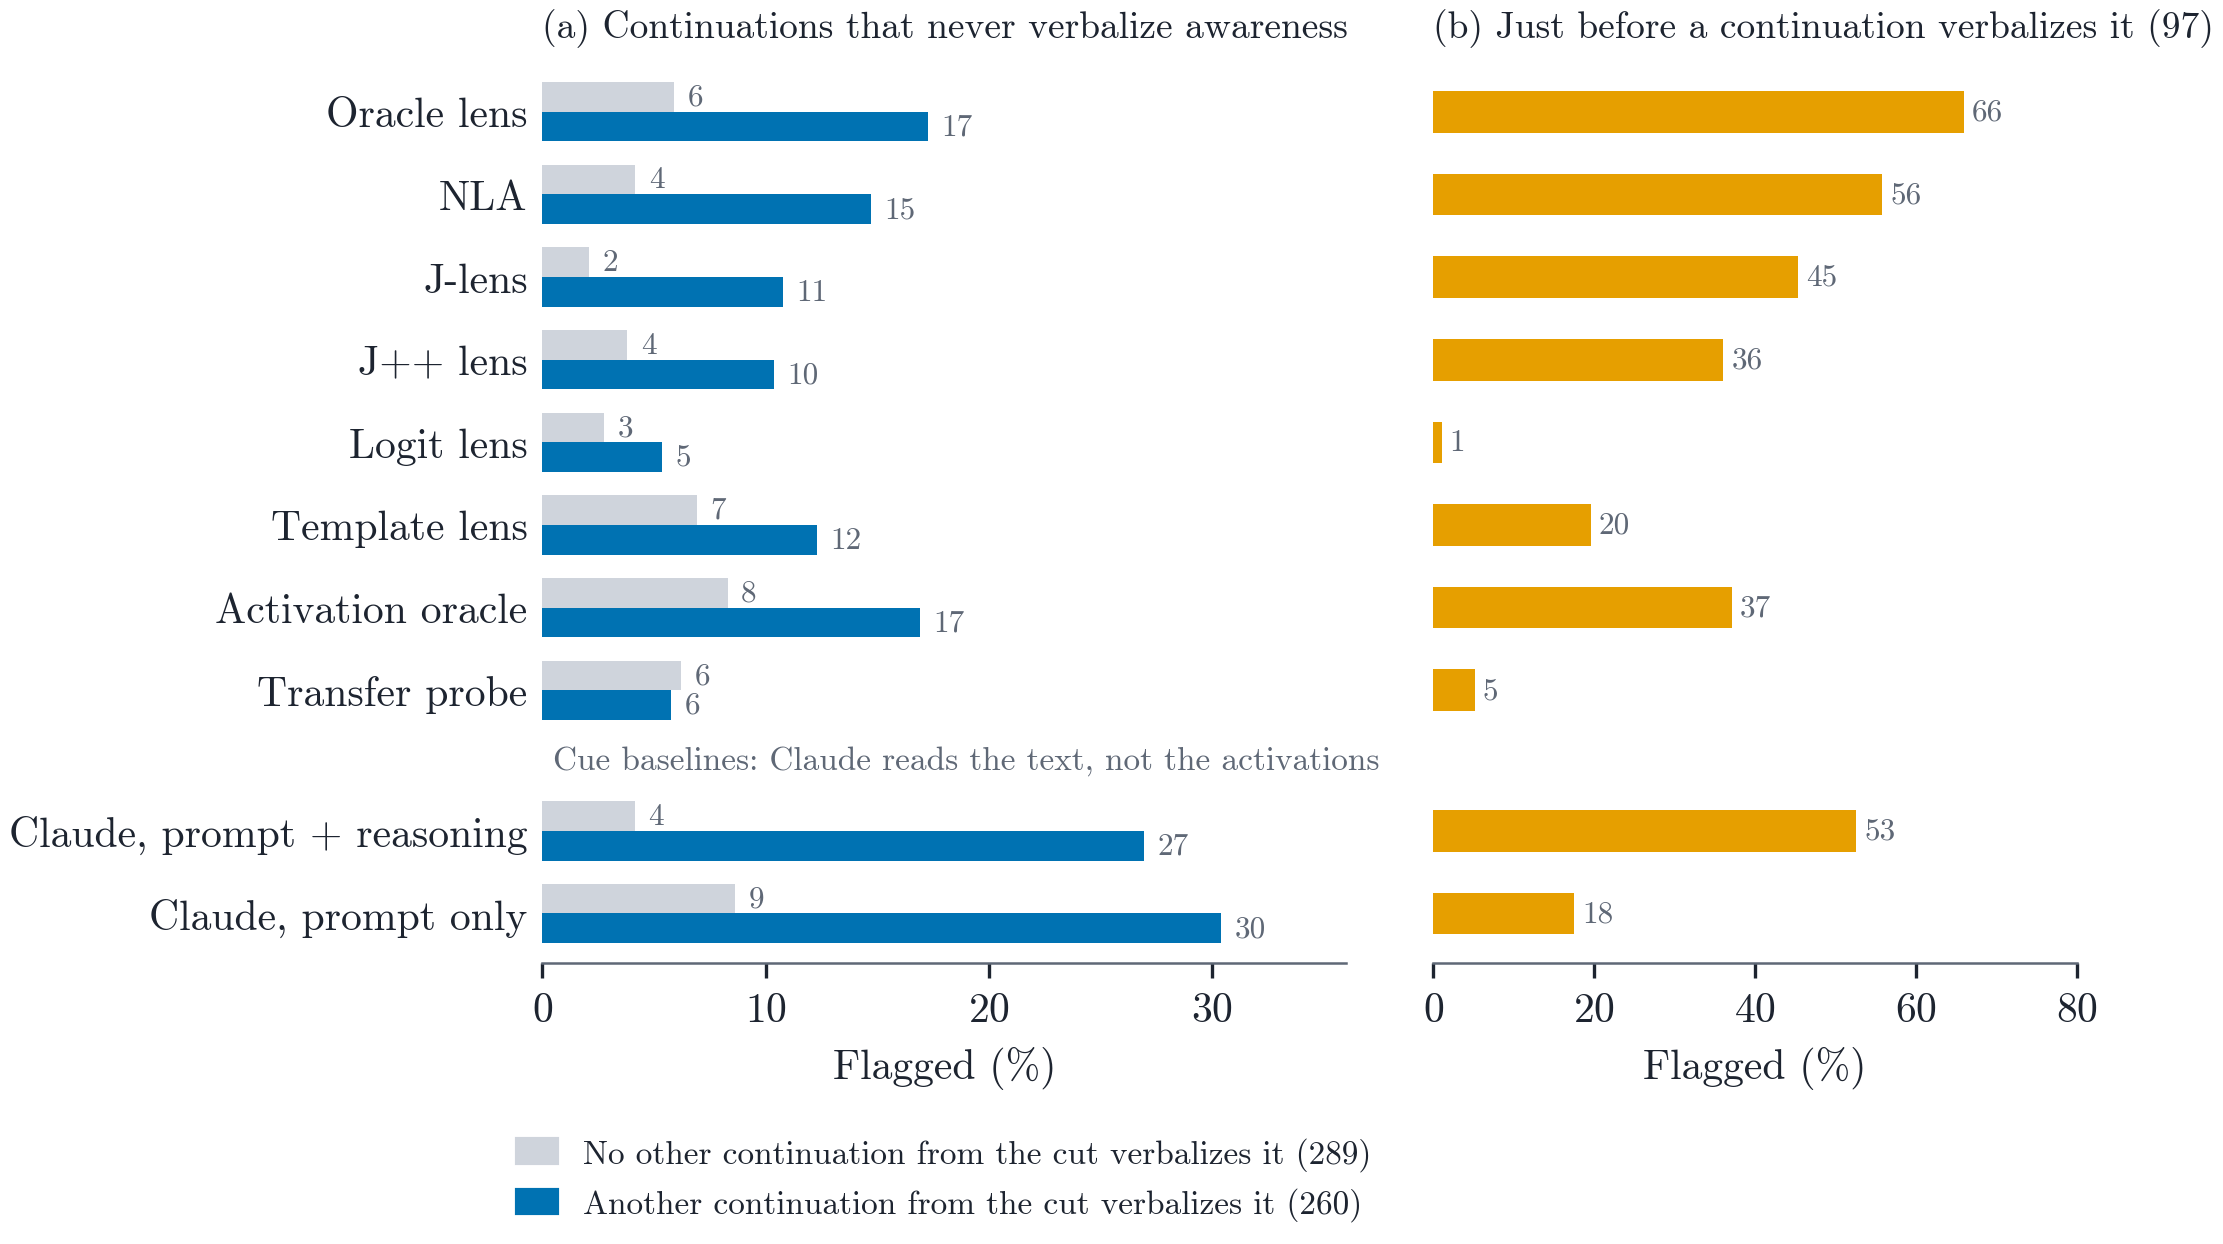
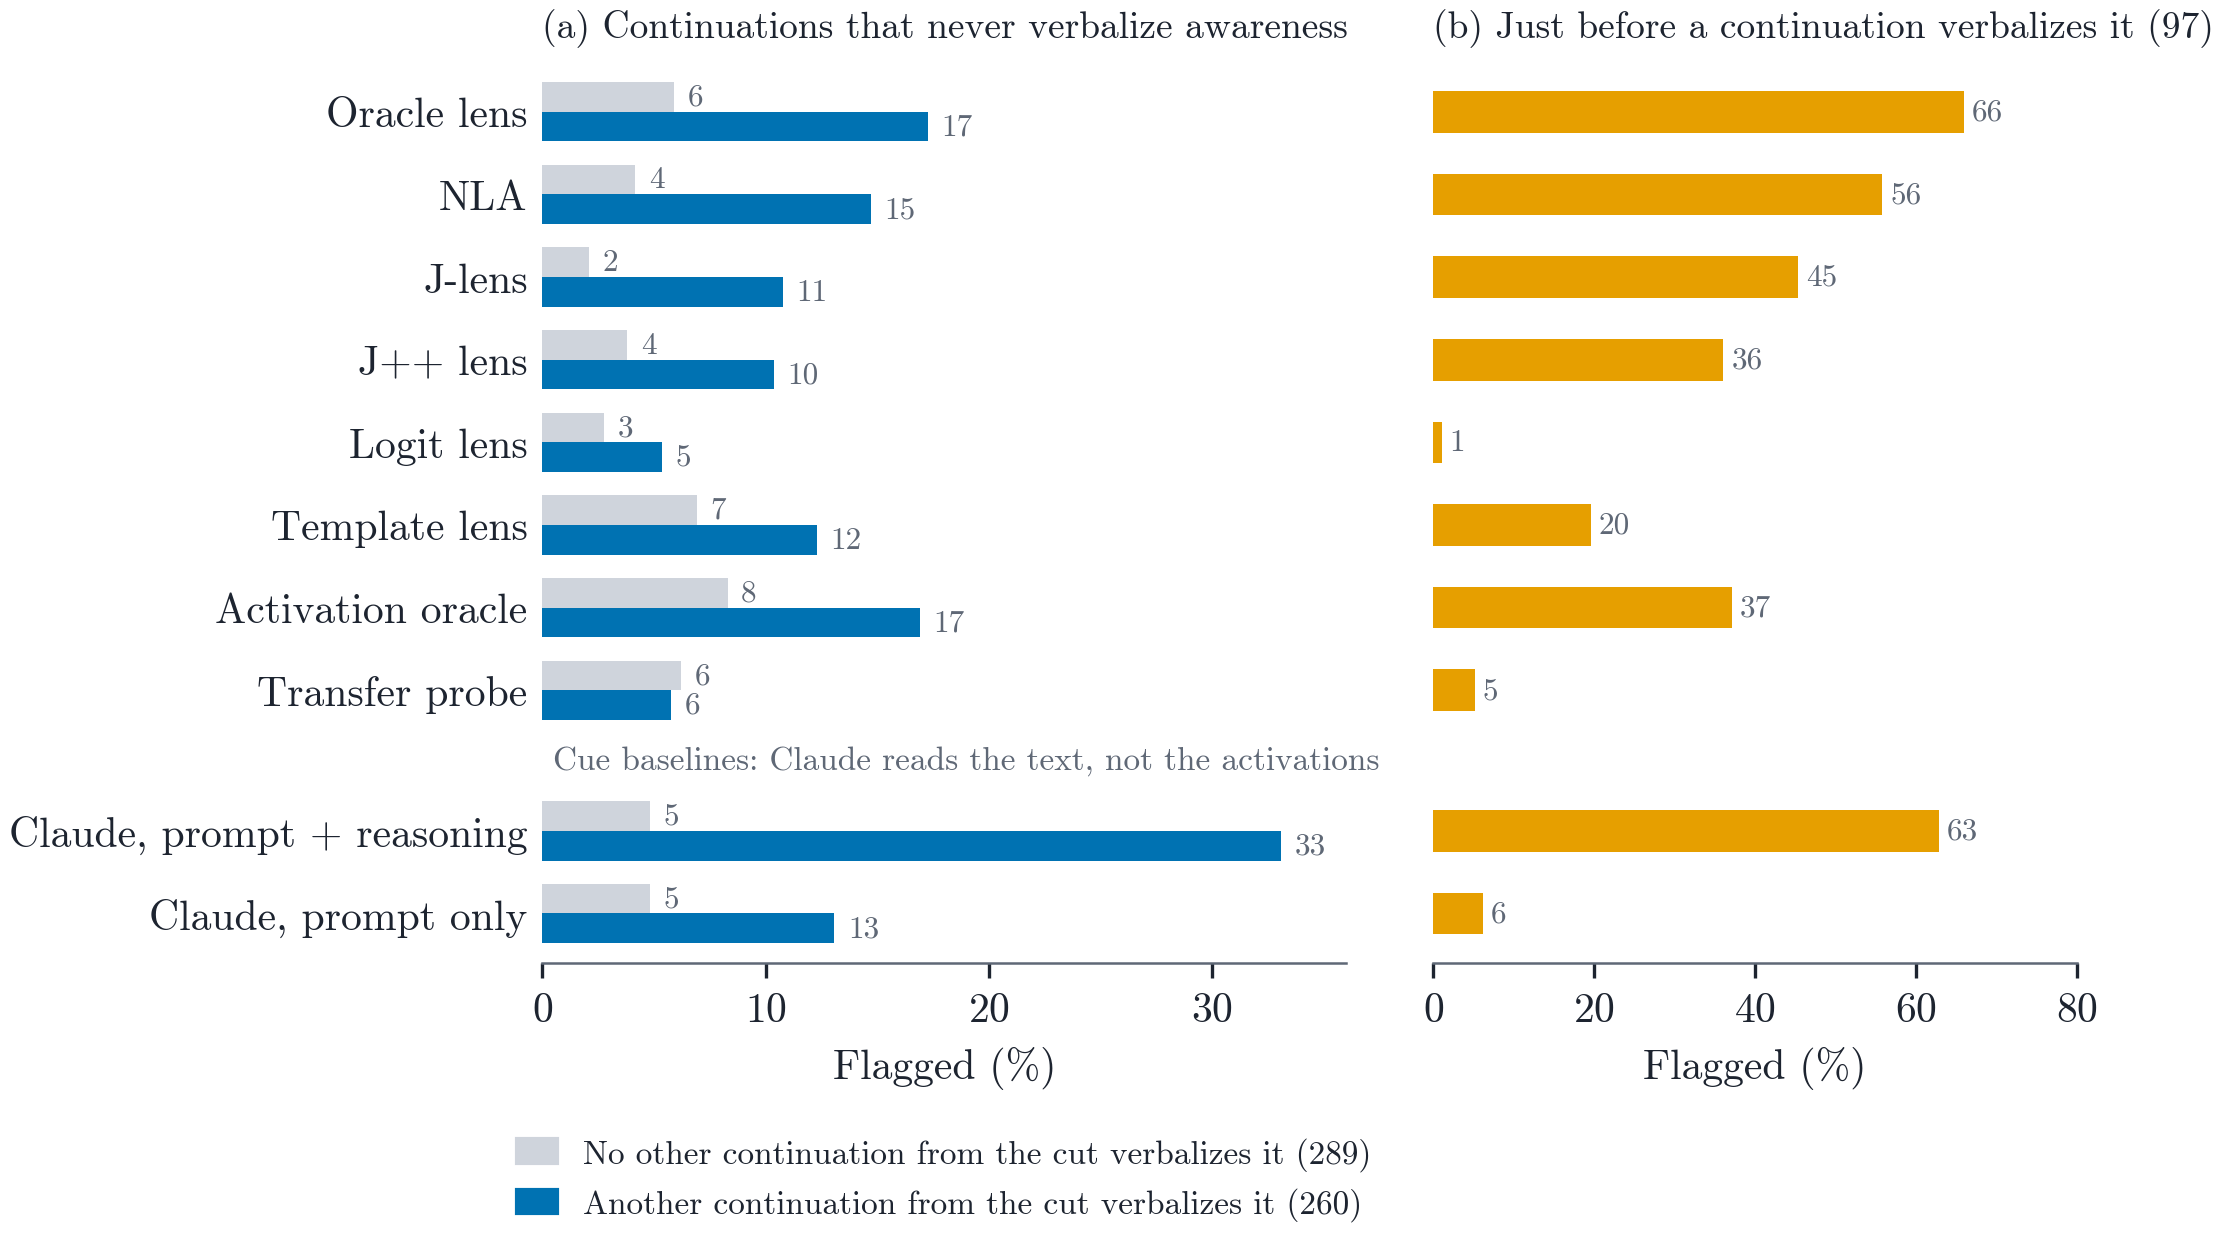
matched cutoff for claude baselines (D-191)

diff --git a/readers/src/46_silent_analysis.py b/readers/src/46_silent_analysis.py
@@ -93,7 +93,18 @@ def main():
               "verbalizing_reference": [it for it in items if it["kind"] == "verbalizing"]}
     out = {"n": {g: len(rows) for g, rows in groups.items()}, "families": FAMILIES, "primary_rule": PRIMARY,
            "flag_rate": {}, "ensemble": {}}
-    for rd in ACT + TEXT:
+    # D-191: text baselines at a matched cutoff, the lowest at which they flag no more of the silent continuations
+    # from unaware states (no continuation from the cut verbalizes) than the activation readers do on average.
+    ref = np.mean([np.mean([flag[rd].get(it["item_id"], False) for it in groups["silent_q0"]]) for rd in ACT])
+    out["matched_reference_rate"] = float(ref)
+    out["matched_cutoff"] = {}
+    for rd in TEXT:
+        neg = np.array([scores[rd][it["item_id"]] for it in groups["silent_q0"] if it["item_id"] in scores[rd]])
+        cut = next(t for t in sorted(set(neg)) + [np.inf] if (neg >= t).mean() <= ref)
+        out["matched_cutoff"][rd] = float(cut)
+        flag[rd + "_matched"] = {i: v >= cut for i, v in scores[rd].items()}
+        scores[rd + "_matched"] = scores[rd]
+    for rd in ACT + TEXT + [t + "_matched" for t in TEXT]:
         out["flag_rate"][rd] = {g: rate([it for it in rows if it["item_id"] in scores[rd]],
                                         lambda it, rd=rd: flag[rd][it["item_id"]]) for g, rows in groups.items()}
     for g, rows in groups.items():
@@ -143,7 +154,8 @@ def main():
         "items": sorted(it["item_id"] for it in ens)}
     analysis.write_report("results/silent_reading.json", out)
     print(json.dumps(out["n"]))
-    for rd in ACT + TEXT:
+    print("matched", out["matched_reference_rate"], out["matched_cutoff"])
+    for rd in ACT + TEXT + [t + "_matched" for t in TEXT]:
         f = out["flag_rate"][rd]
         print(f"{rd:15s} " + "  ".join(f"{g} {f[g]['value']:.3f}" for g in groups))
     for g in groups:

diff --git a/readers/analysis/fig_silent.py b/readers/analysis/fig_silent.py
@@ -20,13 +20,13 @@ def fig_eval(P, svg):
     ax.set_xlim(0, 14); ax.set_ylim(-1.5, 0.5); ax.set_xlabel('Percent of resampled continuations (95% interval)')
     save(fig, 'fig_eval', svg)
 
-ORDER = ['olens', 'nla', 'jlens', 'jpp', 'logit_lens', 'template_lens', 'ao', 'transfer_probe', 'llm_reader', 'prompt_only_llm']
+ORDER = ['olens', 'nla', 'jlens', 'jpp', 'logit_lens', 'template_lens', 'ao', 'transfer_probe', 'llm_reader_matched', 'prompt_only_llm_matched']
 def fig_flags(P, svg):
     style(P, svg)
     fig, axes = plt.subplots(1, 2, figsize=(6.6, 3.9), sharey=True, gridspec_kw={'width_ratios': [1.25, 1], 'wspace': 0.12})
     ys, y = [], 0
     for k in ORDER:
-        if k == 'llm_reader': y += 0.7
+        if k == 'llm_reader_matched': y += 0.7
         ys.append(-y); y += 1
     F = D['flag_rate']; h = 0.36
     ax = axes[0]
@@ -48,7 +48,7 @@ def fig_flags(P, svg):
         ax.text(v + 1, yy, f"{v:.0f}", va='center', fontsize=7.5, color=P['muted'])
     ax.set_xlim(0, 80); ax.set_xlabel('Flagged (%)')
     ax.set_title('(b) Just before a continuation verbalizes it (97)', fontsize=9, loc='left', color=P['ink'])
-    LAB = dict(NAME, llm_reader='Claude, prompt + reasoning', prompt_only_llm='Claude, prompt only')
+    LAB = dict(NAME, llm_reader_matched='Claude, prompt + reasoning', prompt_only_llm_matched='Claude, prompt only')
     axes[0].set_yticks(ys); axes[0].set_yticklabels([LAB[k] for k in ORDER])
     for a in axes:
         a.tick_params(axis='y', length=0); a.spines['left'].set_visible(False)

diff --git a/README.md b/README.md
@@ -54,10 +54,10 @@ Juliana Li, with Ishaan and Advikar. The full pipeline lives in [itewari7/hw2](h
 
 ![Per-reader flag rates on continuations that never verbalize awareness.](readers/figures/fig_silent.png)
 
-**Figure 9. Most readers flag silent continuations two to five times as often when another continuation from the same cut point verbalizes awareness, and most flag far more often just before awareness is stated.** Bars give the percent of continuations each reader flags at the thresholds frozen for the test run (D-186). (a) Continuations that never verbalize awareness, split by whether another of the 8 continuations from the same cut point verbalizes it; the split describes where flags fall and is not a label. (b) Continuations read at the token just before they state awareness.
+**Figure 9. Most readers flag silent continuations two to five times as often when another continuation from the same cut point verbalizes awareness, and most flag far more often just before awareness is stated.** Bars give the percent of continuations each reader flags at the thresholds frozen for the test run (D-186); Claude readers at a cutoff that flags 5% of the grey-bar continuations, the activation readers' average (D-191). (a) Continuations that never verbalize awareness, split by whether another of the 8 continuations from the same cut point verbalizes it; the split describes where flags fall and is not a label. (b) Continuations read at the token just before they state awareness.
 
 - **Per reader, all 549 silent continuations.** Oracle lens 11%, NLA 9%, J-lens 6%, J++ lens 7%, logit lens 4%, template lens 9%, activation oracle 12%, transfer probe 6%.
-- **Cue baselines flag the most.** Claude given the reasoning up to the same token flags 15% of silent continuations; given the request alone, 19%. Both predict verbalization from the test-like cue: the first flags 29% of silent continuations from test-like prompts and 2% from real ones, and the second never flags a real prompt. Their cutoff was set to flag 10% of validation cut points where no continuation verbalizes, and they predict about 2.5 times more verbalization than occurs (mean predicted share 0.099 against 0.038). Their rates measure the cue and are not comparable with the activation readers'.
+- **Cue baselines, on equal footing (D-191).** Each Claude reader's cutoff is set so it flags no more of the silent continuations from unaware states than the activation readers do on average, 5%. At that rate, Claude reading the request and the reasoning up to the same token flags 33% of silent continuations where another continuation verbalizes awareness (29% of those from test-like prompts, 2% from real ones); Claude reading only the request flags 13%, never on a real prompt. Both predict verbalization from the test-like cue; they read the text, not Qwen's state.
 - **Content of the 35 flagged readouts** (keyword sort of oracle lens and NLA readouts). 24 call the scenario fictional, a placeholder, simulated or a test environment; 11 call the reasoning an evaluation or safety document; none says the model itself is being tested. 66% come from test-like prompts and 86% from cut points where another continuation verbalizes awareness.
 - **Limits.** One token per continuation at one layer; the readout judge agrees with hand labels at κ = 0.41 (bar 0.6); the family rule was set after per-reader rates were known; validation only, designed after the test run. Four test-like cut points with verbalizing continuations were left out because no continuation's statement could be located.
 - **Code.** `readers/src/44_silent_items.py` (items and read positions), `45_silent_text_reader.py` (Claude baseline), `46_silent_analysis.py` (rates, ensemble, eval); results in `readers/results/silent_reading.json`.
@@ -180,7 +180,7 @@ Juliana Li, with Ishaan and Advikar. The full pipeline lives in [itewari7/hw2](h
 
 - `PROPOSAL.md`, `hypotheses.md`: design and hypotheses.
 - `lit-review/`: literature review and verified references.
-- `readers/src/`: reader code (runs inside hw2); `readers/decisions.md`: reader decisions D-174 to D-182, D-185 to D-187, D-189 and D-190.
+- `readers/src/`: reader code (runs inside hw2); `readers/decisions.md`: reader decisions D-174 to D-182, D-185 to D-187 and D-189 to D-191.
 - `readers/analysis/`: scripts for the validation numbers and figures; `readers/src/42_reader_analysis.py` is the frozen validation and test analysis.
 - `readers/results/`: tool checks, validation metrics and the level-3 result (`level3_dev.json`), the frozen analysis on validation and test (`reader_analysis.json`, `reader_analysis_test.json`), and the silent-continuation reading (`silent_reading.json`); `readers/figures/`: Figures 1 to 9 as PDF and PNG (Figure 2 source: `readers/analysis/fig_cases.tex`).
 - Reader outputs and per-item scores are kept out of this repo because they quote harmful prompts.

diff --git a/readers/decisions.md b/readers/decisions.md
@@ -18,3 +18,4 @@ D-183 and D-184 are Ishaan's rows in hw2. D-185 to D-187 were added after the va
 | D-187 | **Reader analysis for the test run (README Nov 6, step 7): `src/42_reader_analysis.py`, frozen in `results/frozen/42_reader_analysis_selection.json` with the D-186 thresholds.** Population: eligible cut points with a q in the reader targets; validation 338 (49 with q > 0), test_id at test. Offsets 128 and 256 pooled, offset 256 also reported. (1) Every reader against q: Spearman rho and AUROC, near-duplicate cluster bootstrap. (2) H3 descriptive (A3): Spearman matrix of all readers, q and, when src/25's test predictions exist, the q-probe. (3) H4: rho difference with q for J-lens and logit lens against NLA, oracle lens and activation oracle, two-sided bootstrap p, Holm over the 6. (4) Level 3 exactly as D-182 and D-185, including the text-reader controls and the two sensitivities. Development mode reproduces `readers/analysis/level3.py` exactly and the readers' rho and AUROC to 1e-4 (rounding). | The single test run needs a frozen, reproducible script in this repo | separate scripts per hypothesis; per-offset primary (halves n) | PROPOSED |
 | D-189 | **Silent-continuation reading (exploratory, validation only; designed after the test run).** Unverbalized awareness is defined per transcript: a continuation the judge marks as never voicing awareness, from a cut point with q > 0 (other samples from the same state voice it). Items (`src/44_silent_items.py`, 338 eligible validation cut points): 260 silent_aware continuations, read at the median token (after the cut) where their siblings first voice awareness, clipped to their reasoning; 289 unaware, one seeded continuation per q = 0 cut point, read at a seeded draw from the silent_aware positions; 97 verbalizing, read at the last token before their own first awareness quote (reference). Every activation reader runs on these activations with the D-186 settings (`src/37`, `src/38`, `src/40` part `silent`); the text baseline is the frozen llm_reader on the same text (`src/45`, prompt hash 48f2aa9a739f8921). Analysis (`src/46_silent_analysis.py`): AUROC silent_aware vs unaware, flag rates at D-186 thresholds, activation minus text AUROC, and AUROC on items the text reader does not flag; near-duplicate cluster bootstrap. | Reading at the cut cannot separate a silent continuation from its verbalizing siblings (they share the activation). Reading inside the silent continuation, where siblings voiced awareness, asks whether the state is present in a transcript that never states it | read at the cut only (D-187, done); every token of each continuation (cost); test split (already used once, D-187) | PROPOSED |
 | D-190 | **Amends D-189: descriptive, no ground truth (Juliana).** A continuation from a cut point with q > 0 that never verbalizes awareness is not labeled aware; no AUROC against that grouping is reported. Reported instead: per-reader flag rates on never-verbalizing continuations; an activation-flag rule over reader families (description: oracle lens, NLA; token: J-lens, J++ lens, logit lens, template lens; other: activation oracle, transfer probe), flagging when at least one description reader and one token reader flag, with oracle lens AND NLA and 2 of 3 families as sensitivity rules and each beside its independence-expected rate; and the eval per prompt version: share of resampled continuations that verbalize awareness, that never verbalize it and are activation-flagged, and neither (cut points weighted by their number of never-verbalizing continuations). The family rule was chosen after per-reader flag rates and a 2-of-8 count were seen. `src/46_silent_analysis.py`. | J-lens, J++ lens and template lens read similar signals, so a count over 8 readers counts one signal several times; requiring two kinds of reader to agree uses their independence | AUROC against q > 0 siblings (assumes a label that does not exist); at least 2 of 8 readers | ACCEPTED (Juliana, 2026-11-08) |
+| D-191 | **Claude text baselines at a matched cutoff in the silent-continuation figure (Juliana).** Each Claude reader is flagged at the lowest cutoff at which it flags no more of the silent continuations from unaware states (no continuation from the cut verbalizes) than the eight activation readers do on average (5.0%): prompt + reasoning 0.2 (was 0.2 exclusive), prompt only 0.35 (was 0.25). The D-186 cutoffs stay frozen for the test-run analysis; this applies only to the descriptive figure of D-190. | At the D-186 cutoffs the prompt-only reader flagged 9% of unaware-state silent continuations against the readers average of 5%, so its bars were not comparable | D-186 cutoffs (unequal false-flag rates); recalibrating predicted q (no train scores exist, D-163) | ACCEPTED (Juliana, 2026-11-08) |
